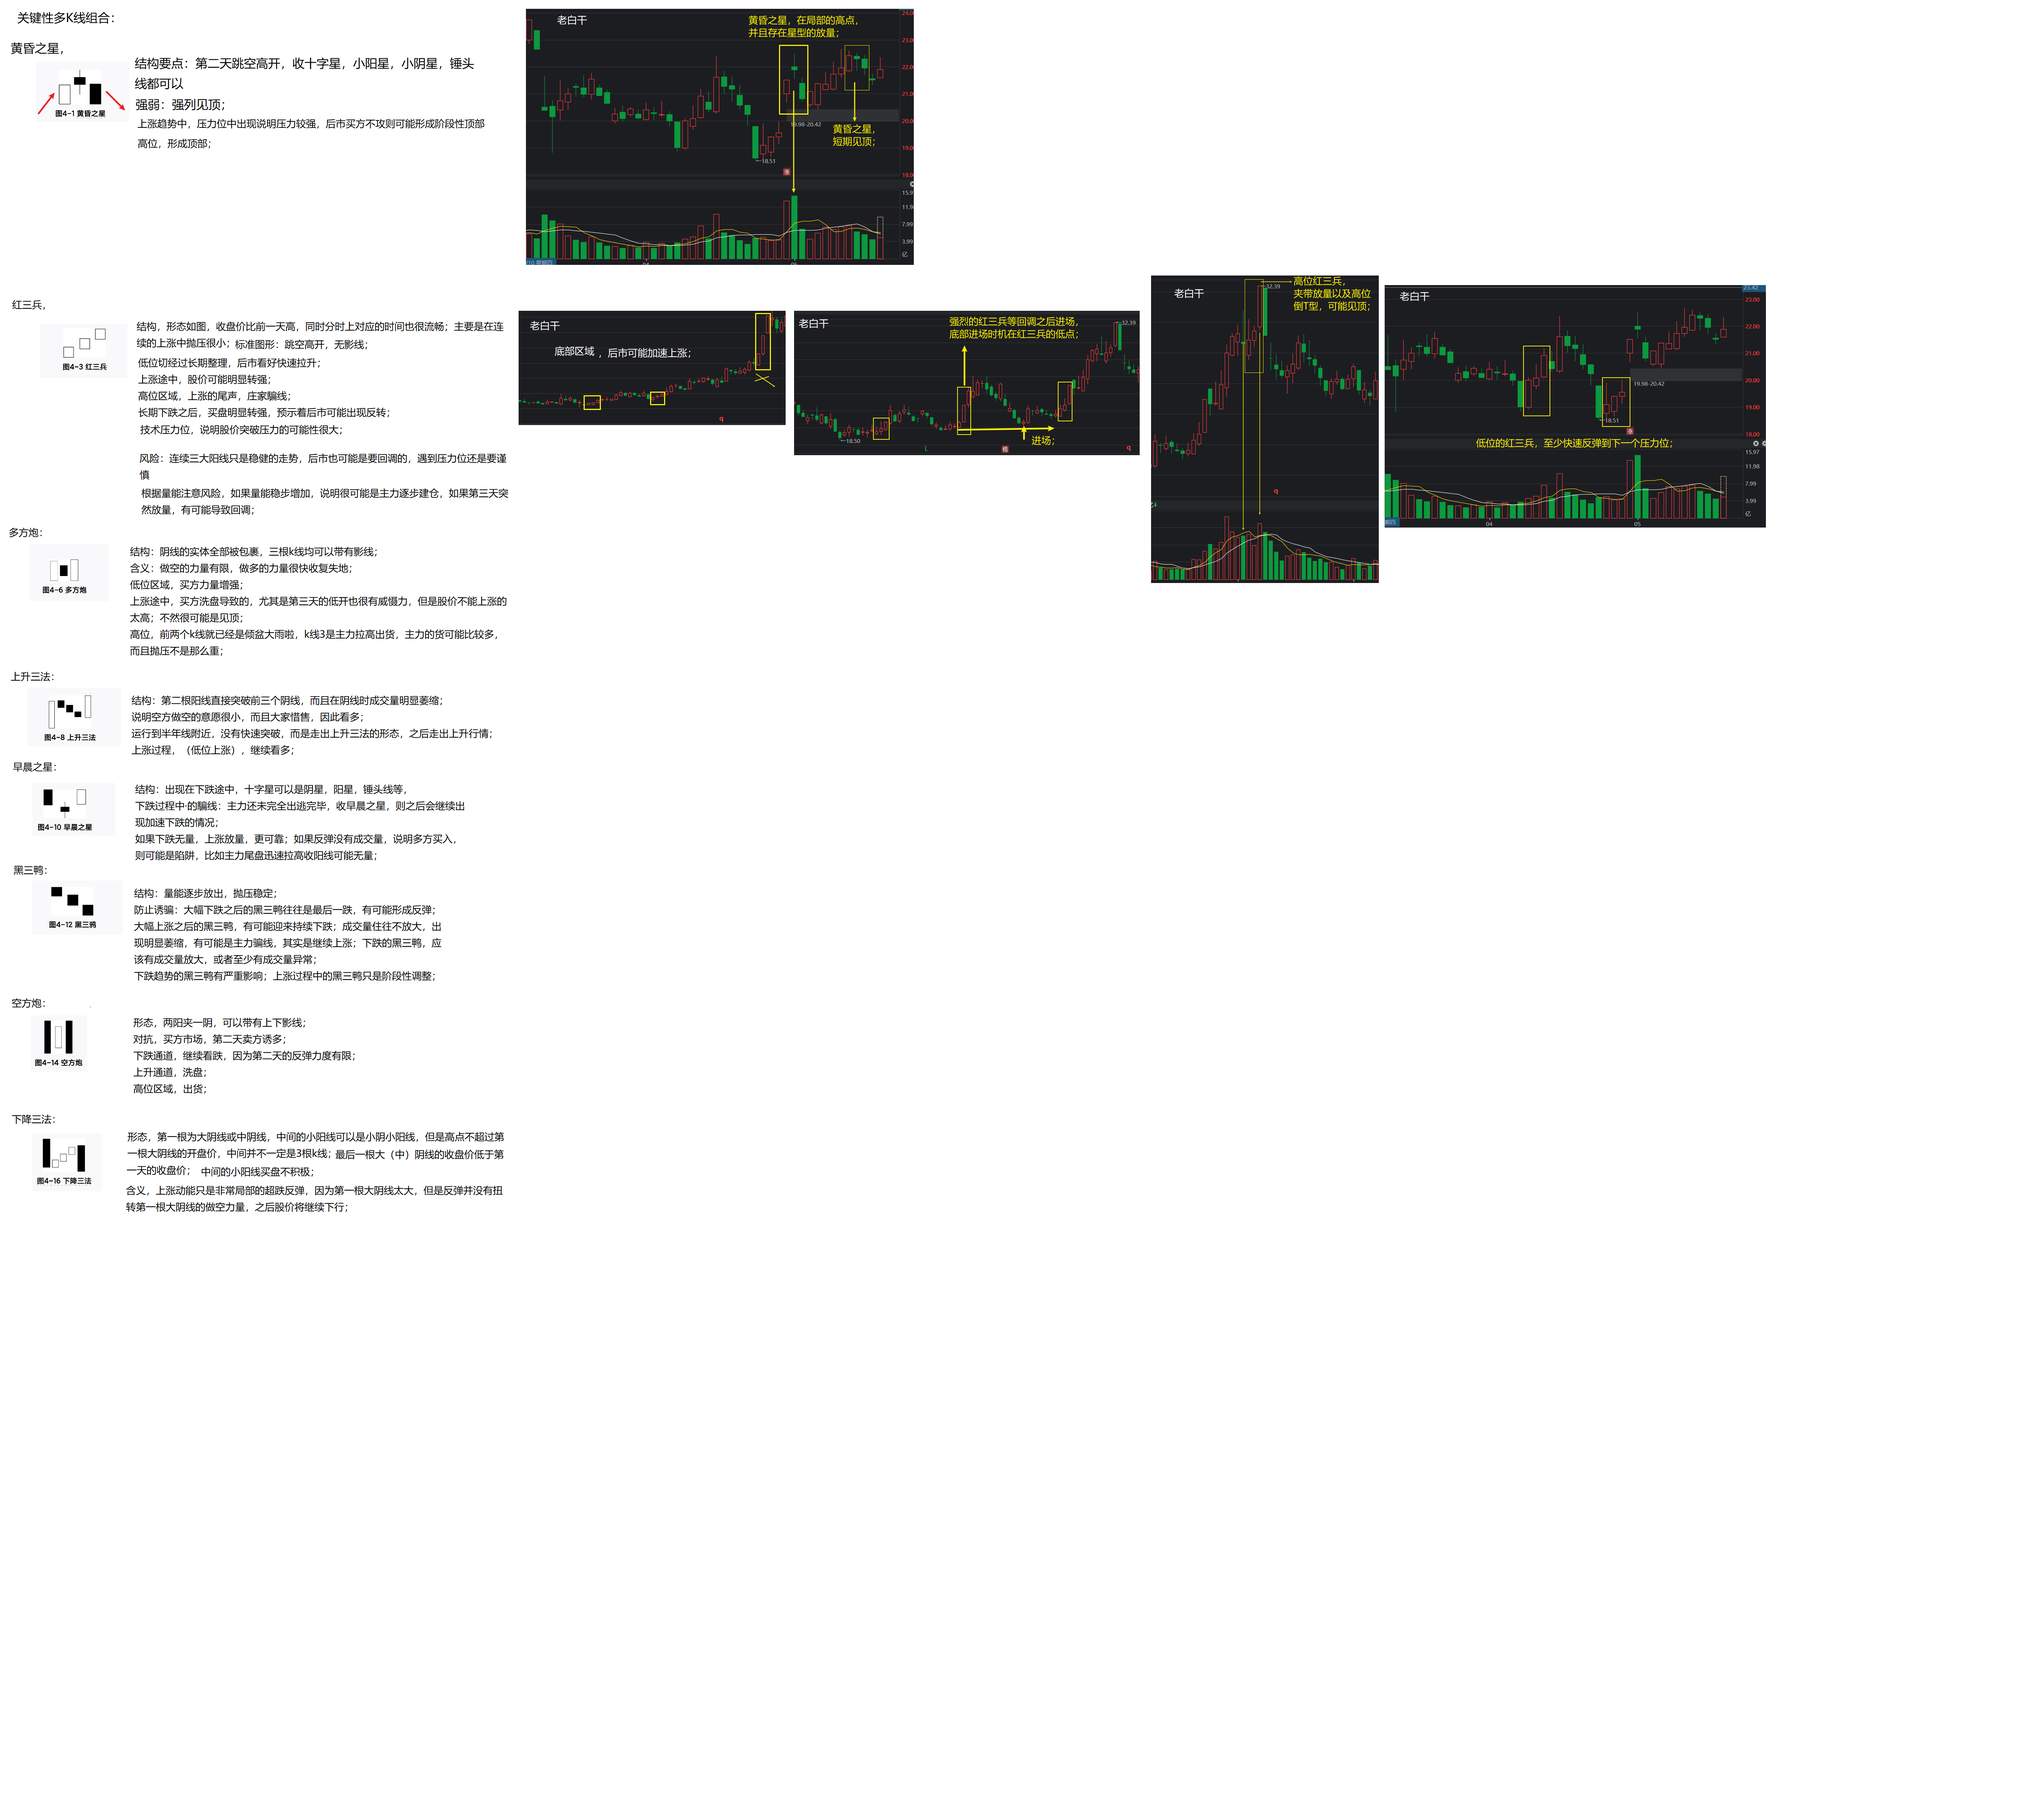
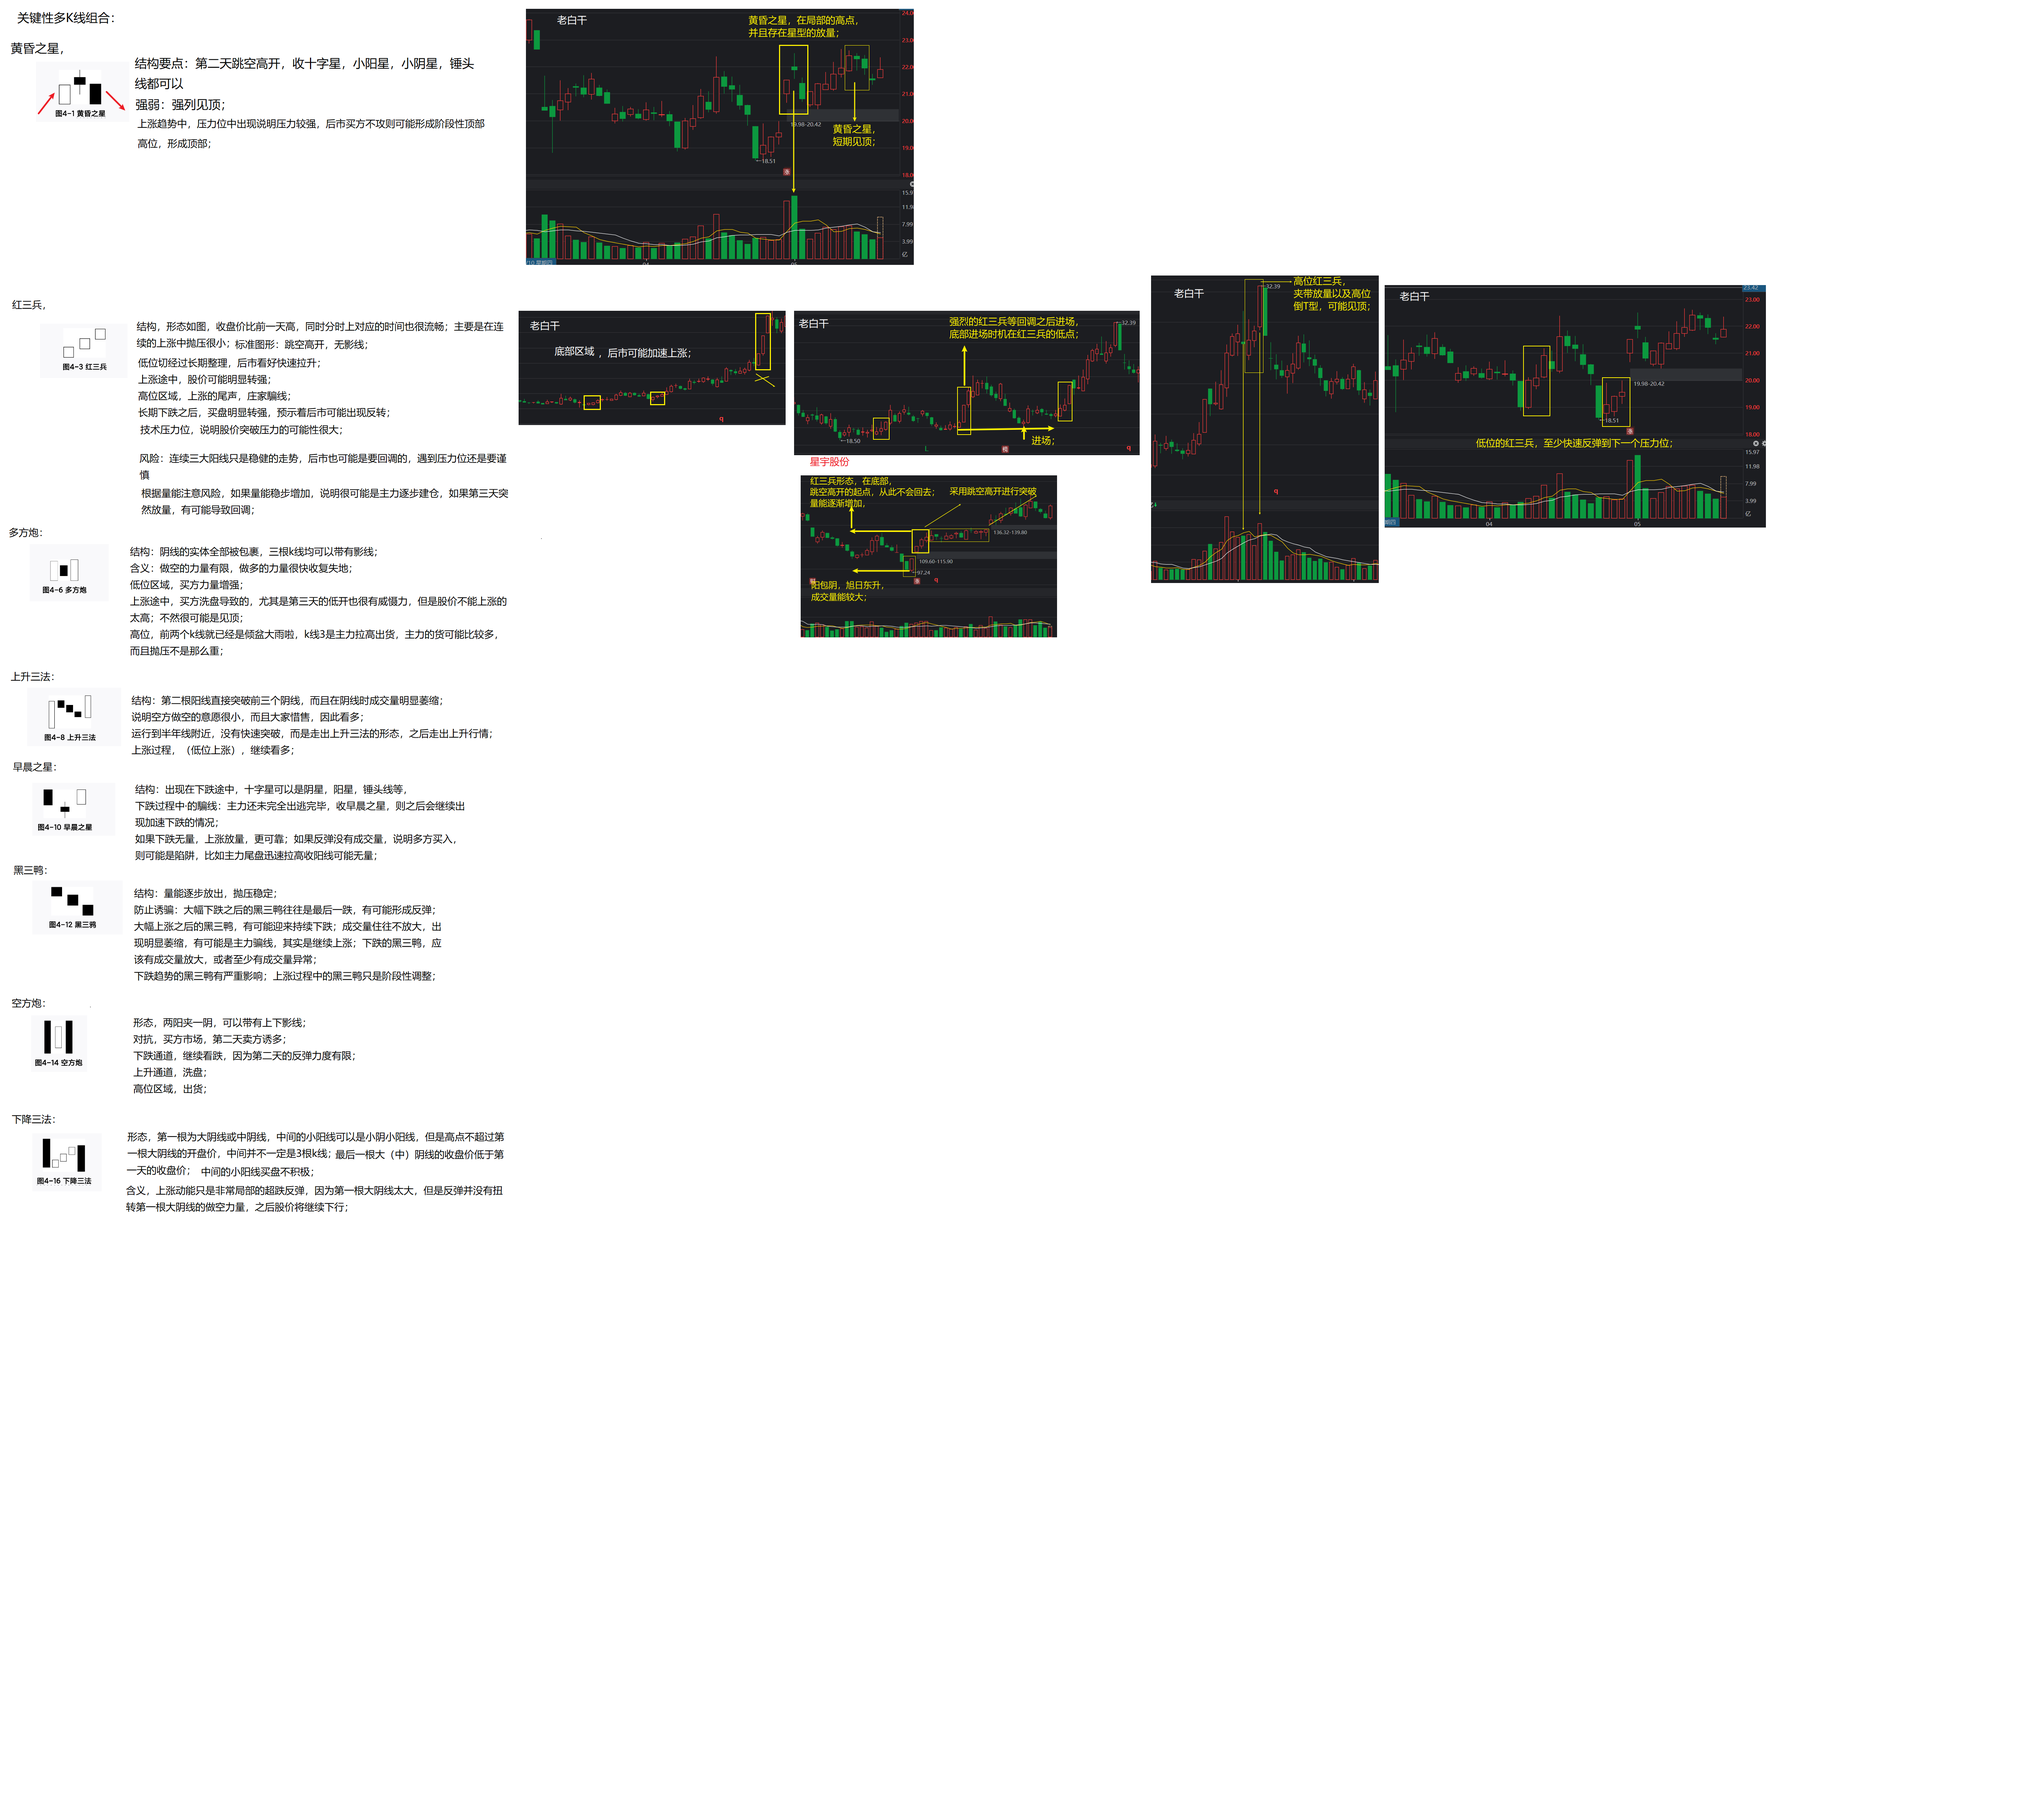
update market

Changed region(s): [[0.3747, 0.2494, 0.5309, 0.3741]]

diff --git a/homepagelink/market.html b/homepagelink/market.html
@@ -24,7 +24,7 @@
             <br>下棋前好好想一下！
             <br>学会潜伏，因为风格总会切换的，——服装业的切换不就是一个粒子，以新疆棉花为转折点的潜伏；同时资金总是要套现的，但又不可能闲置，因此会有板块轮换；
             <br>相信自己的判断，一旦下手了，不要轻易的退出！
-        <h2>行情很好的时候:my opinion</h2>
+        <h2>行情很好的时候:my opinion</h2>  
             <br>行情很好的时候，可以追高，将止盈点可以设置为20%左右；
         <h2><br>行情不好的时候:my opinion</h2>
             <br>设置的止盈点坚决不超过6%，也就是两天不超过3%——据我观察，不会连涨两天，而一个行业平均两天大涨不超过4%，但是自己不会吧这8%全部吃掉，所以设置止盈点6%.
@@ -237,19 +237,33 @@
         今天没有操作，但是房地产很危险，分化明显，而且震荡很大，不知道该不该卖，大家都在说赶紧卖，但是我觉得成交量上不去应该第二波反弹还没走完。
         <h2>5.27</h2>
         这是伍月的倒数第二周了，
-        今年暂时卖掉了新希望，进入了老白干，直接加了16000元，感觉有点多了，应该加10000的一不小心多了，但是并没有上冲，感觉有点诱多，但是尾盘又拉升了，所以暂且不好判断，认为是
+            今年暂时卖掉了新希望，进入了老白干，直接加了16000元，感觉有点多了，应该加10000的一不小心多了，但是并没有上冲，感觉有点诱多，但是尾盘又拉升了，所以暂且不好判断，认为是
         震荡走势，等到跌破22.68就跑，如果在22.68以上就暂时持有，下方的跳空缺口也可以拿着了，现在应该是不会回补了。
-        中国武夷和湖南瑞泽，一个是房地产一个是水泥，现在都在底部，可以不动。中国武夷应该洗盘洗的差不多了，会往上冲一波儿，水泥也是；
+            中国武夷和湖南瑞泽，一个是房地产一个是水泥，现在都在底部，可以不动。中国武夷应该洗盘洗的差不多了，会往上冲一波儿，水泥也是；
         北玻股份比较危险，暂时处于底部的支撑，我加仓了，在20cm之间震荡，应该是出货，可以在20cm里面在做一做。回本了就出掉吧。
         <h2>6.9复盘</h2>
-        昨天前天减仓了老白干，因为老白干现在来到了26块钱的压力区，在这里即使不调整向下，一般也会横盘洗去浮动的筹码；而且macd到达高点，kdj形成了死叉，并且市场形成了普跌的局限，用
+            昨天前天减仓了老白干，因为老白干现在来到了26块钱的压力区，在这里即使不调整向下，一般也会横盘洗去浮动的筹码；而且macd到达高点，kdj形成了死叉，并且市场形成了普跌的局限，用
         白酒版块在试图拖着指数。所以最近要涨的应该是前期超跌的或者是恒强的煤炭板块。
-        前期的中国武夷，海南瑞泽是想做一波儿超跌反弹，一般拉升之后还会有二浪，现在应该快到了，所以这两天可以潜伏进去，如果真的跌破底部的支撑位，那么就逃走。
+            前期的中国武夷，海南瑞泽是想做一波儿超跌反弹，一般拉升之后还会有二浪，现在应该快到了，所以这两天可以潜伏进去，如果真的跌破底部的支撑位，那么就逃走。
         国际医学并没有强拉，那么结合kdj指标就会走出一小波儿下降趋势，但是距离底部的支撑很近，在亏损范围之内，所以就暂且不动，如果跌破支撑位，那就逃吧。
         这两天市场不太好，最好还是要小心。严格设置止损位置，以防迎来普跌急跌大跌。
-        今天进了煤炭板块，ST大洲上方的压力是比较大的，因为横盘时间不够久，洗盘不干净，但是这两天严重放量，如果明后天能继续持续的话，并且维持高量，那则可以冲破现在的压力位，说明主力
+            今天进了煤炭板块，ST大洲上方的压力是比较大的，因为横盘时间不够久，洗盘不干净，但是这两天严重放量，如果明后天能继续持续的话，并且维持高量，那则可以冲破现在的压力位，说明主力
         做多意愿强烈，并且手上有足够的现金，或者说有不断地增量资金，一旦出现资金不够，量能不足，那就说明有危险了。下一个压力位看到2.42。涨幅约为10%。
-        陕西煤业暂时没有说主力完全要走的意思，但是现在量能逐渐放出来了，说明已经进入了危险状态，过两天如果出现快速拉升，就要小心见顶了。已经开始出现快速拉升了，估计调整将要来临。
+            陕西煤业暂时没有说主力完全要走的意思，但是现在量能逐渐放出来了，说明已经进入了危险状态，过两天如果出现快速拉升，就要小心见顶了。已经开始出现快速拉升了，估计调整将要来临。
         但是有可能是一波儿洗盘。反正自己总是要先出的。煤炭主要看能否维持住爆量。
+            6.14：煤炭并没有进行一个放量，反倒是有所缩量，那么就认为高位缩量延续上涨，因为大家出现了分歧，且主力没打算抛售，等到中报出来的时候可能就会有所担忧了。
+        <h2>6.14日周二</h2>
+        星宇股份操作点评：
+            上周追涨了星宇股份，今天全天一直低开，下午我想到了他会稍微企稳，但是没想到直接涨了5%，而我在-2%卖掉了，感觉很亏。甚是难过。
+        我觉得主要原因有一个，就是我进场的原因不清晰，导致我一直去盯盘，风吹草动都很敏感。
+        其次是第二个问题，对于大票，150的票，一手就占据我的半仓，操作起来很有难度，在跌的时候没法做一个减半仓，在涨的时候没法做一个加仓，不能做出试探性的动作。
+        总结一下改如何处理，1、明确做一个票的原因。2、做大票的时候需要明确知晓近期的形态，明确知道涨跌区间，做认知范围内的事情。
+        比如比亚迪的追涨，在突破区间的时候去追涨就可以，但是仍然要承受剧烈的波动。
+        回想一下当初追涨星宇股份的操作，应该是为了吃一波惯性，但是今天没有惯性，所以我出了。盘中一直寻找合适的卖点，导致不断在看盘。
+        岱美股份点评：
+            今天追了岱美股份，意在做一个缺口回补，之后还有10%的涨幅。但是需要保证明天的量能依旧很足，就可以做一个缺口回补。
+        如果明天上涨就出货，不管涨多少，因为在前复权看来（不计算缺口），明天是有压力位的，今天已经显现出来了。
+        如果明天下跌缩量的话，那就暂时持有；如果明天上涨缩量的话，那也出货吧。这是今天冲动买下的票。不具备一个好的形态学。（除权之后好歹有kdj金叉，前复权就不太好了）
+        <h2></h2>
 </body>
 </html>
